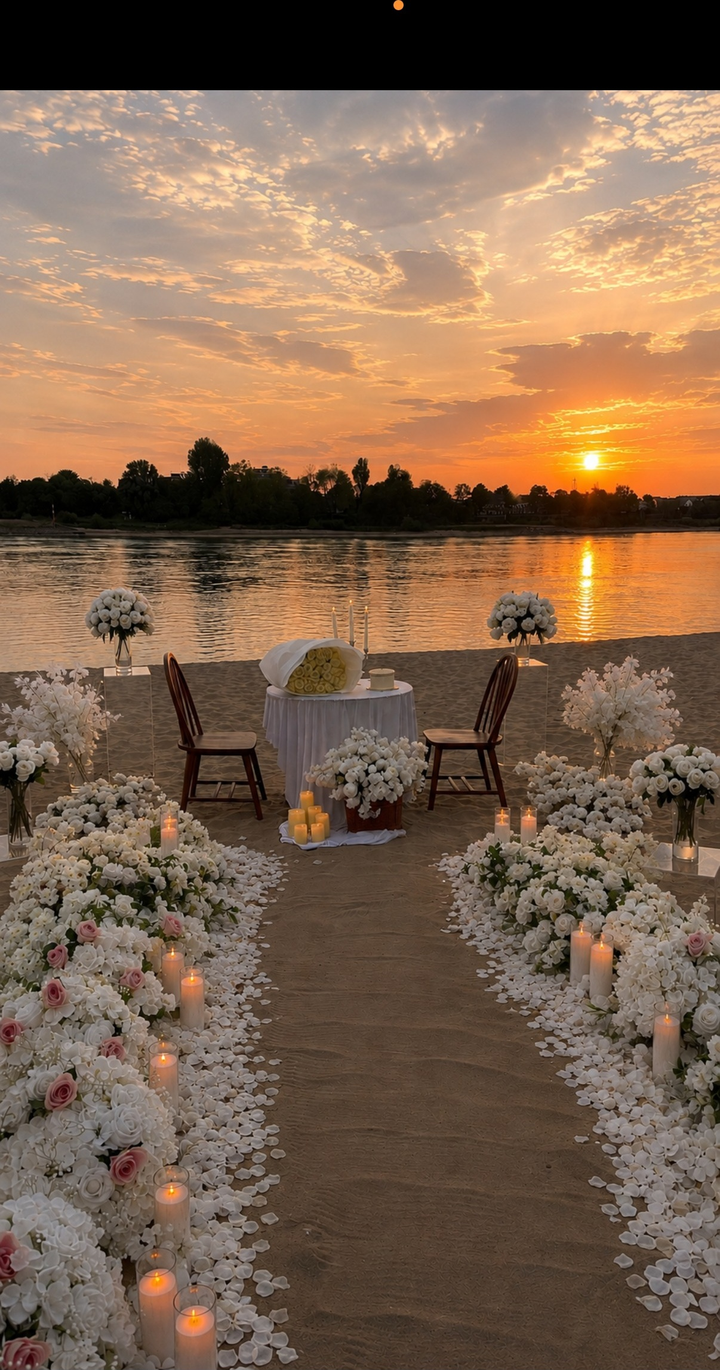
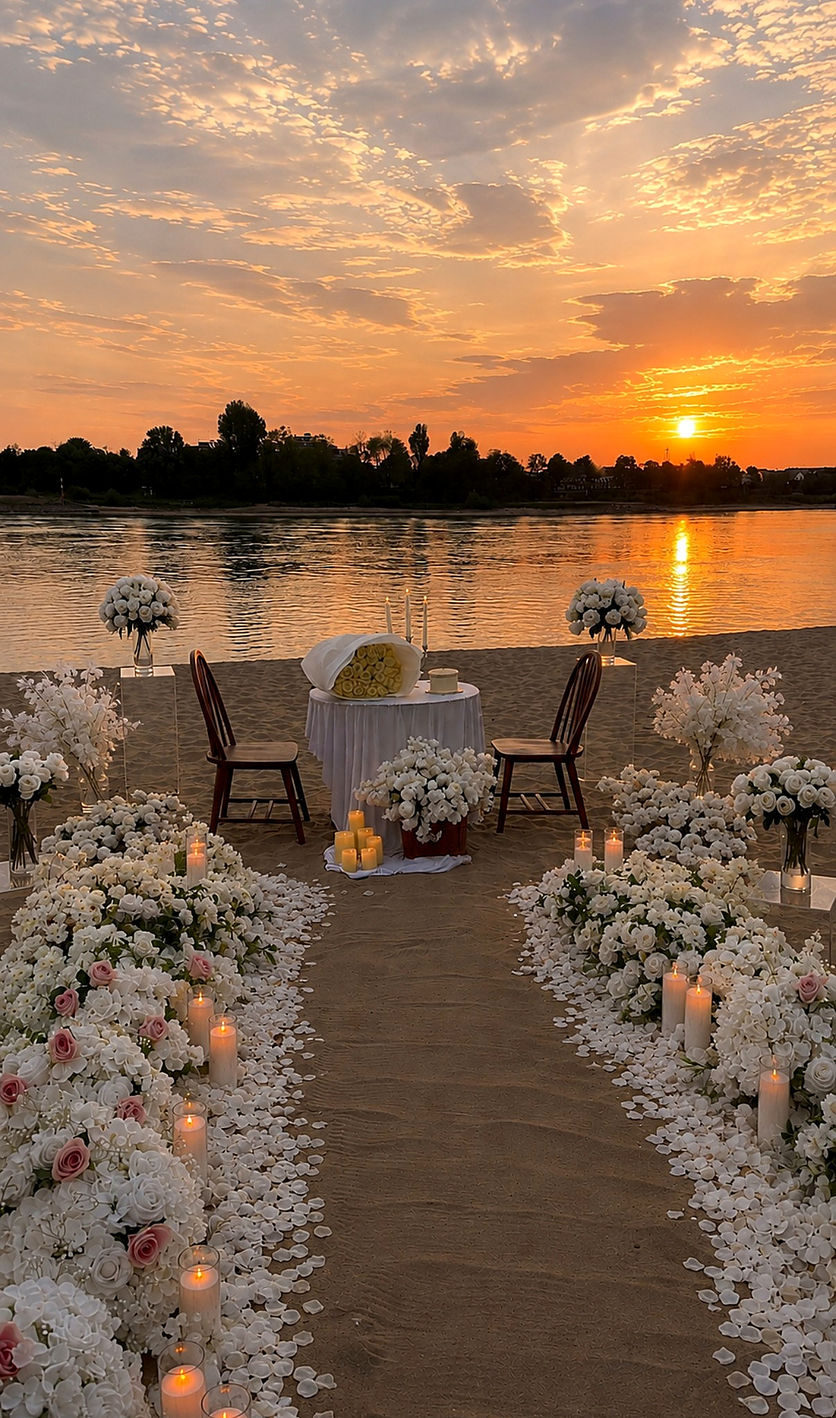
fix(media): enhance and crop Instagram UI from gallery image 28.jpg and clean status bars from 7.jpg and 24.jpg

diff --git a/gallery.html b/gallery.html
@@ -610,12 +610,12 @@
         </div>
 
 
-        <div class="masonry-item" data-cat="hochzeit" data-index="26" data-img="images/28.jpg" data-cat-disp="Traumhochzeit" data-title="Ceiling Floral Cloud" data-desc="Schwebende Deckeninstallation im Festsaal voller Blüten und Lichtpunkte" data-wa="https://wa.me/4917657354779?text=Hallo%20Ketadecor%20Team%2C%20ich%20interessiere%20mich%20fuer%20das%20Setup%20%2ACeiling%20Floral%20Cloud%2A%20%28Traumhochzeit%29.%20Ist%20mein%20Wunschdatum%20verfuegbar%3F">
-          <img src="images/28.jpg" alt="Ceiling Floral Cloud — Schwebende Deckeninstallation im Festsaal voller Blüten und Lichtpunkte" loading="lazy">
+        <div class="masonry-item" data-cat="hochzeit" data-index="26" data-img="images/28.jpg" data-cat-disp="Traumhochzeit" data-title="Skyline Panorama Romance" data-desc="Rooftop-Inszenierung über den Dächern mit rotem Rosenherz, Herz-Torte & MARRY ME Neon" data-wa="https://wa.me/4917657354779?text=Hallo%20Ketadecor%20Team%2C%20ich%20interessiere%20mich%20fuer%20das%20Setup%20%2ACeiling%20Floral%20Cloud%2A%20%28Traumhochzeit%29.%20Ist%20mein%20Wunschdatum%20verfuegbar%3F">
+          <img src="images/28.jpg" alt="Skyline Panorama Romance — Rooftop-Inszenierung über den Dächern mit rotem Rosenherz, Herz-Torte & MARRY ME Neon" loading="lazy">
           <div class="masonry-overlay">
             <span class="masonry-cat">Traumhochzeit</span>
-            <h3 class="masonry-title">Ceiling Floral Cloud</h3>
-            <p style="font-size: 13px; color: rgba(250,247,242,0.8); margin-bottom: 16px; font-weight: 300;">Schwebende Deckeninstallation im Festsaal voller Blüten und Lichtpunkte</p>
+            <h3 class="masonry-title">Skyline Panorama Romance</h3>
+            <p style="font-size: 13px; color: rgba(250,247,242,0.8); margin-bottom: 16px; font-weight: 300;">Rooftop-Inszenierung über den Dächern mit rotem Rosenherz, Herz-Torte & MARRY ME Neon</p>
             <div style="display: flex; gap: 8px; flex-wrap: wrap;">
               <a href="https://wa.me/4917657354779?text=Hallo%20Ketadecor%20Team%2C%20ich%20interessiere%20mich%20fuer%20das%20Setup%20%2ACeiling%20Floral%20Cloud%2A%20%28Traumhochzeit%29.%20Ist%20mein%20Wunschdatum%20verfuegbar%3F" target="_blank" class="btn-gold" style="padding: 8px 18px; font-size: 10px; border-radius: 20px;" onclick="event.stopPropagation();">
                 <svg viewBox="0 0 24 24" fill="currentColor" style="width:16px;height:16px;display:inline-block;vertical-align:middle;margin-right:6px;"><path d="M17.472 14.382c-.301-.15-1.78-.878-2.056-.978-.276-.1-.476-.15-.677.15-.2.301-.777.978-.952 1.18-.175.2-.351.226-.652.075-.301-.15-1.27-.468-2.42-1.493-.895-.798-1.5-1.784-1.675-2.085-.175-.3-.019-.462.131-.612.136-.135.301-.351.452-.527.15-.175.2-.3.301-.501.1-.2.05-.376-.025-.526-.075-.15-.677-1.632-.927-2.233-.244-.585-.492-.506-.677-.515l-.577-.01c-.2 0-.526.075-.802.376s-1.053 1.028-1.053 2.508c0 1.48 1.078 2.908 1.228 3.109.15.2 2.122 3.24 5.141 4.544.718.31 1.279.495 1.716.634.721.229 1.377.197 1.895.12.578-.087 1.78-.727 2.031-1.429.25-.702.25-1.304.175-1.429-.075-.125-.276-.2-.577-.35zM12 2C6.477 2 2 6.477 2 12c0 1.89.525 3.66 1.438 5.174L2 22l4.981-1.405A9.957 9.957 0 0012 22c5.523 0 10-4.477 10-10S17.523 2 12 2zm0 18.167c-1.644 0-3.17-.492-4.453-1.336l-.32-.209-2.956.833.847-2.882-.228-.337A8.134 8.134 0 013.833 12c0-4.502 3.665-8.167 8.167-8.167 4.502 0 8.167 3.665 8.167 8.167 0 4.502-3.665 8.167-8.167 8.167z"/></svg> <span>Setup anfragen</span>
